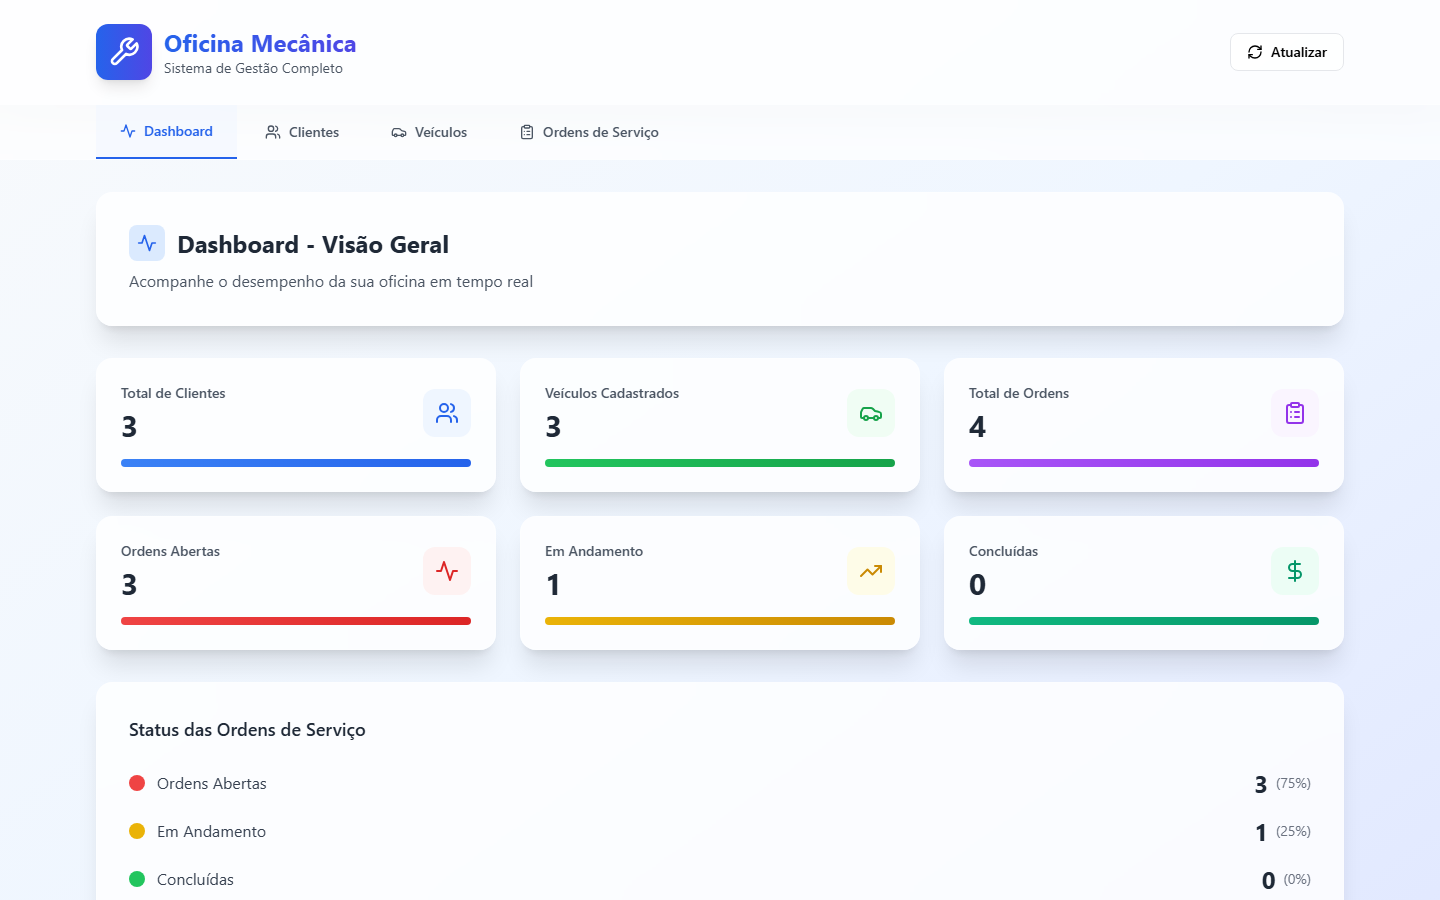
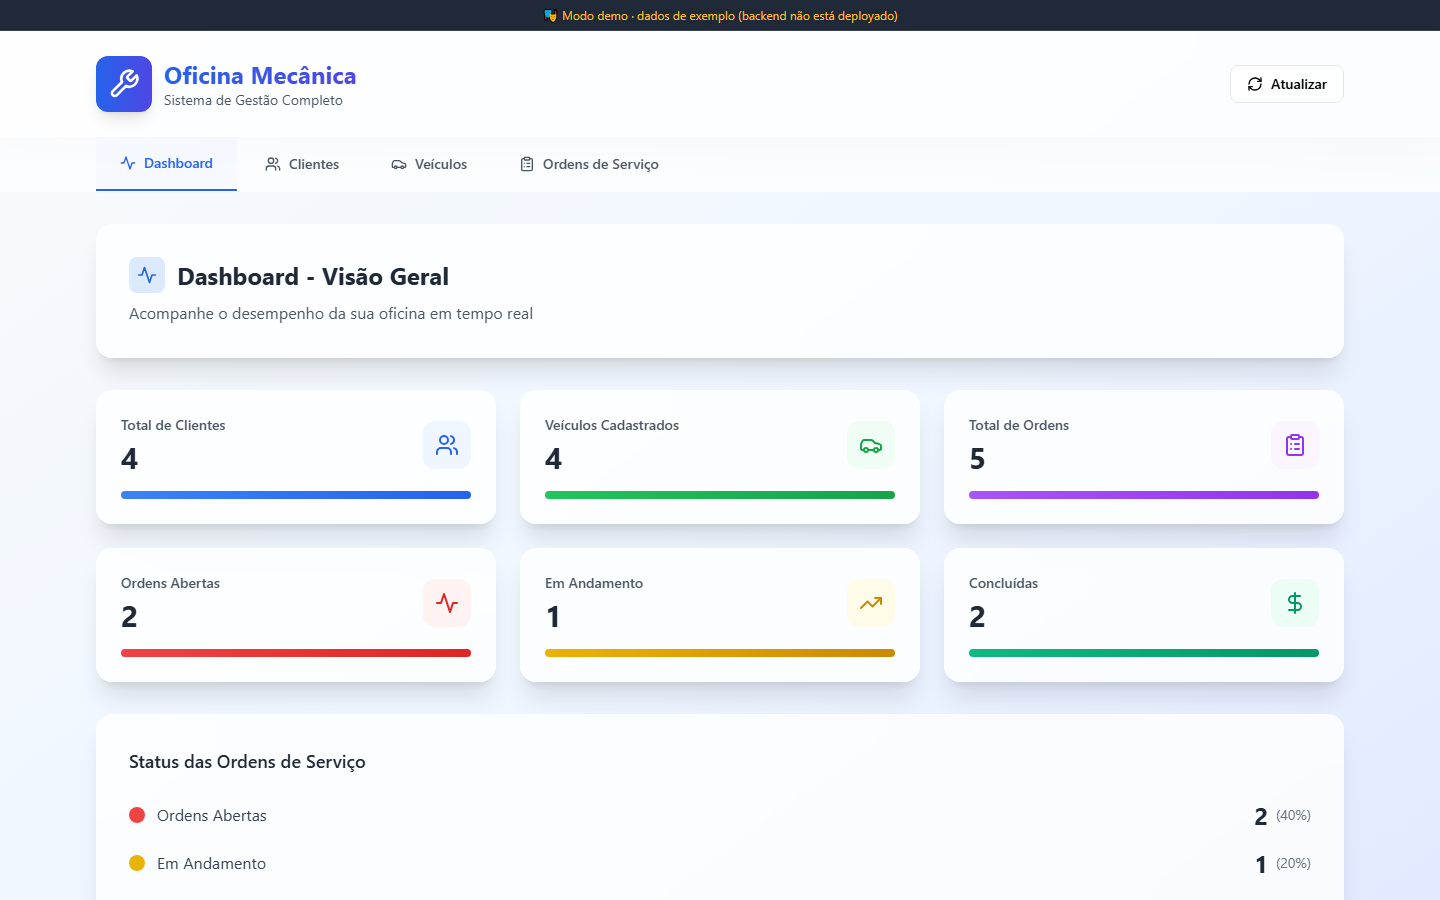
feat: layout mobile pra FitHome + bio inclui mobile
- ProjectCard: nova prop layout (desktop|mobile); mobile renderiza
  o screenshot centralizado em 220px com fundo dark
- FitHome usa layout=mobile + imageHeight 896 + 7 badges de tech
- Bio do hero: 'web e mobile' em vez de só 'web'
- Screenshot da OFICINA atualizado pra captura ao vivo (banner Modo demo visível)

diff --git a/components/ProjectCard.tsx b/components/ProjectCard.tsx
@@ -1,5 +1,7 @@
 import Image from "next/image";
 
+type Layout = "desktop" | "mobile";
+
 type Props = {
   title: string;
   description: string;
@@ -8,6 +10,8 @@ type Props = {
   image: string;
   imageAlt: string;
   imageWidth?: number;
+  imageHeight?: number;
+  layout?: Layout;
   demoUrl?: string;
   repoUrl: string;
 };
@@ -19,21 +23,35 @@ export function ProjectCard({
   stack,
   image,
   imageAlt,
-  imageWidth = 1200,
+  imageWidth = 1440,
+  imageHeight = 900,
+  layout = "desktop",
   demoUrl,
   repoUrl,
 }: Props) {
   return (
     <article className="group rounded-xl border border-border bg-surface/40 p-5 transition-colors hover:border-muted/30 sm:p-6">
-      <div className="overflow-hidden rounded-lg border border-border bg-bg">
-        <Image
-          src={image}
-          alt={imageAlt}
-          width={imageWidth}
-          height={750}
-          className="h-auto w-full transition-transform duration-500 group-hover:scale-[1.01]"
-        />
-      </div>
+      {layout === "mobile" ? (
+        <div className="flex justify-center overflow-hidden rounded-lg border border-border bg-bg py-6">
+          <Image
+            src={image}
+            alt={imageAlt}
+            width={imageWidth}
+            height={imageHeight}
+            className="h-auto w-[220px] rounded-md shadow-2xl transition-transform duration-500 group-hover:scale-[1.02]"
+          />
+        </div>
+      ) : (
+        <div className="overflow-hidden rounded-lg border border-border bg-bg">
+          <Image
+            src={image}
+            alt={imageAlt}
+            width={imageWidth}
+            height={imageHeight}
+            className="h-auto w-full transition-transform duration-500 group-hover:scale-[1.01]"
+          />
+        </div>
+      )}
 
       <div className="mt-5">
         <h3 className="text-xl font-semibold tracking-tight">{title}</h3>

diff --git a/app/page.tsx b/app/page.tsx
@@ -30,10 +30,12 @@ const PROJECTS = [
     description:
       "App mobile para treinos em casa com peso do corpo.",
     descriptionEn: "Mobile app for at-home bodyweight workouts.",
-    stack: ["react-native", "expo", "typescript", "expo-router"],
+    stack: ["react-native", "expo", "expo-router", "typescript", "async-storage", "reanimated", "expo-haptics"],
     image: "/screenshots/academia.png",
     imageAlt: "Tela de onboarding do FitHome",
     imageWidth: 414,
+    imageHeight: 896,
+    layout: "mobile" as const,
     demoUrl: "https://fithome-alpha.vercel.app",
     repoUrl: "https://github.com/guuszz/Academia-Em-Casa",
   },
@@ -59,7 +61,7 @@ export default function Home() {
           Gustavo Oliveira.
         </h1>
         <p className="mt-4 text-2xl font-medium text-muted sm:text-3xl">
-          Construo coisas para a web.
+          Construo coisas para web e mobile.
         </p>
         <p className="mt-6 max-w-prose text-muted">
           Sou estudante de Sistemas de Informação e desenvolvedor full-stack em formação.